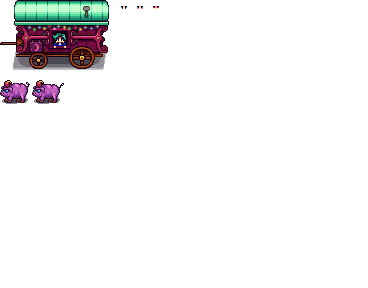
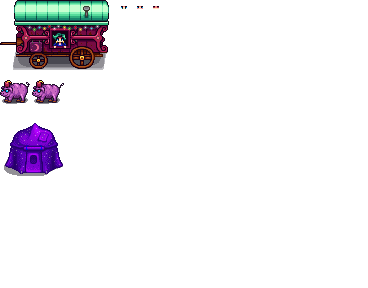
Working map tile property "SpawnVisitorName" for VisitorData.AdvancedVisitorSettings

Changed region(s): [[0.0, 0.4062, 0.1793, 0.625]]

diff --git a/Campgrounds/Framework/Managers/VisitorManager.cs b/Campgrounds/Framework/Managers/VisitorManager.cs
@@ -269,14 +269,15 @@ namespace Campgrounds.Framework.Managers
                 return;
             }
 
-            // Clear any existing visitorCount from the map
+            // Clear any existing visitors from the map
             foreach (var npc in location.characters.ToList())
             {
                 // TODO: Exclude the park's caretaker from the removal
                 NPCHelper.ReturnNPCToSchedule(npc);
             }
 
-            // Add required visitorCount to map
+            // Add required visitors to map
+            var manualVisitorTiles = new List<VisitorTile>();
             var visitorSpotToSpawnTiles = new Dictionary<VisitorSpots, List<VisitorTile>>()
             {
                 { VisitorSpots.SW, new List<VisitorTile>() },
@@ -302,9 +303,20 @@ namespace Campgrounds.Framework.Managers
                             visitorSpotToSpawnTiles[visitorSpot].Add(new VisitorTile() { Tile = new Vector2(x, y), Direction = direction });
                         }
                     }
+                    else if (string.IsNullOrEmpty(location.doesTileHaveProperty(x, y, "SpawnVisitorName", "Back")) is false)
+                    {
+                        Direction direction;
+                        if (Enum.TryParse<Direction>(location.doesTileHaveProperty(x, y, "VisitorFacingDirection", "Back"), true, out direction) is false)
+                        {
+                            direction = Direction.North;
+                        }
+
+                        manualVisitorTiles.Add(new VisitorTile() { Tile = new Vector2(x, y), Direction = direction, SpawnVisitorName = location.doesTileHaveProperty(x, y, "SpawnVisitorName", "Back") });
+                    }
                 }
             }
 
+            // Spawn in visitors added via VisitorData.StandardVisitorSettings
             foreach (var visitorSpot in visitorSpotToSpawnTiles)
             {
                 if (visitorSpot.Key == VisitorSpots.SW && NetWorldState.checkAnywhereForWorldStateID(CampingHelper.GetCindersapParkVisitorParkKey(1)) is true && ActiveVisitorSpots.ContainsKey(visitorSpot.Key))
@@ -320,6 +332,16 @@ namespace Campgrounds.Framework.Managers
                     AddVisitors(visitorSpot.Key, visitorSpot.Value, location);
                 }
             }
+
+            // Spawn in visitors added in via map tile property "SpawnVisitorName"
+            foreach (var visitorTile in manualVisitorTiles)
+            {
+                var visitor = Game1.getCharacterFromName(visitorTile.SpawnVisitorName);
+                if (visitor != null)
+                {
+                    NPCHelper.WarpAndSetDialogue(visitor, location, visitorTile.Tile, faceDirection: visitorTile.Direction, freeze: true);
+                }
+            }
         }
 
         private void AddVisitors(VisitorSpots visitorSpot, List<VisitorTile> visitorTiles, GameLocation location)
@@ -331,7 +353,7 @@ namespace Campgrounds.Framework.Managers
 
             int visitorIndex = 0;
             int visitorCount = ActiveVisitorSpots[visitorSpot].StandardVisitorSettings.Visitors.Count;
-            foreach (var visitorTile in visitorTiles)
+            foreach (var visitorTile in visitorTiles.OrderBy(x => Game1.random.Next()))
             {
                 if (visitorIndex >= visitorCount)
                 {

diff --git a/Campgrounds/Framework/Models/Data/Visitors/VisitorTile.cs b/Campgrounds/Framework/Models/Data/Visitors/VisitorTile.cs
@@ -14,5 +14,6 @@ namespace Campgrounds.Framework.Models.Data.Visitors
     {
         public Vector2 Tile { get; set; }
         public Direction Direction { get; set; } = Direction.North;
+        public string SpawnVisitorName { get; set; }
     }
 }
